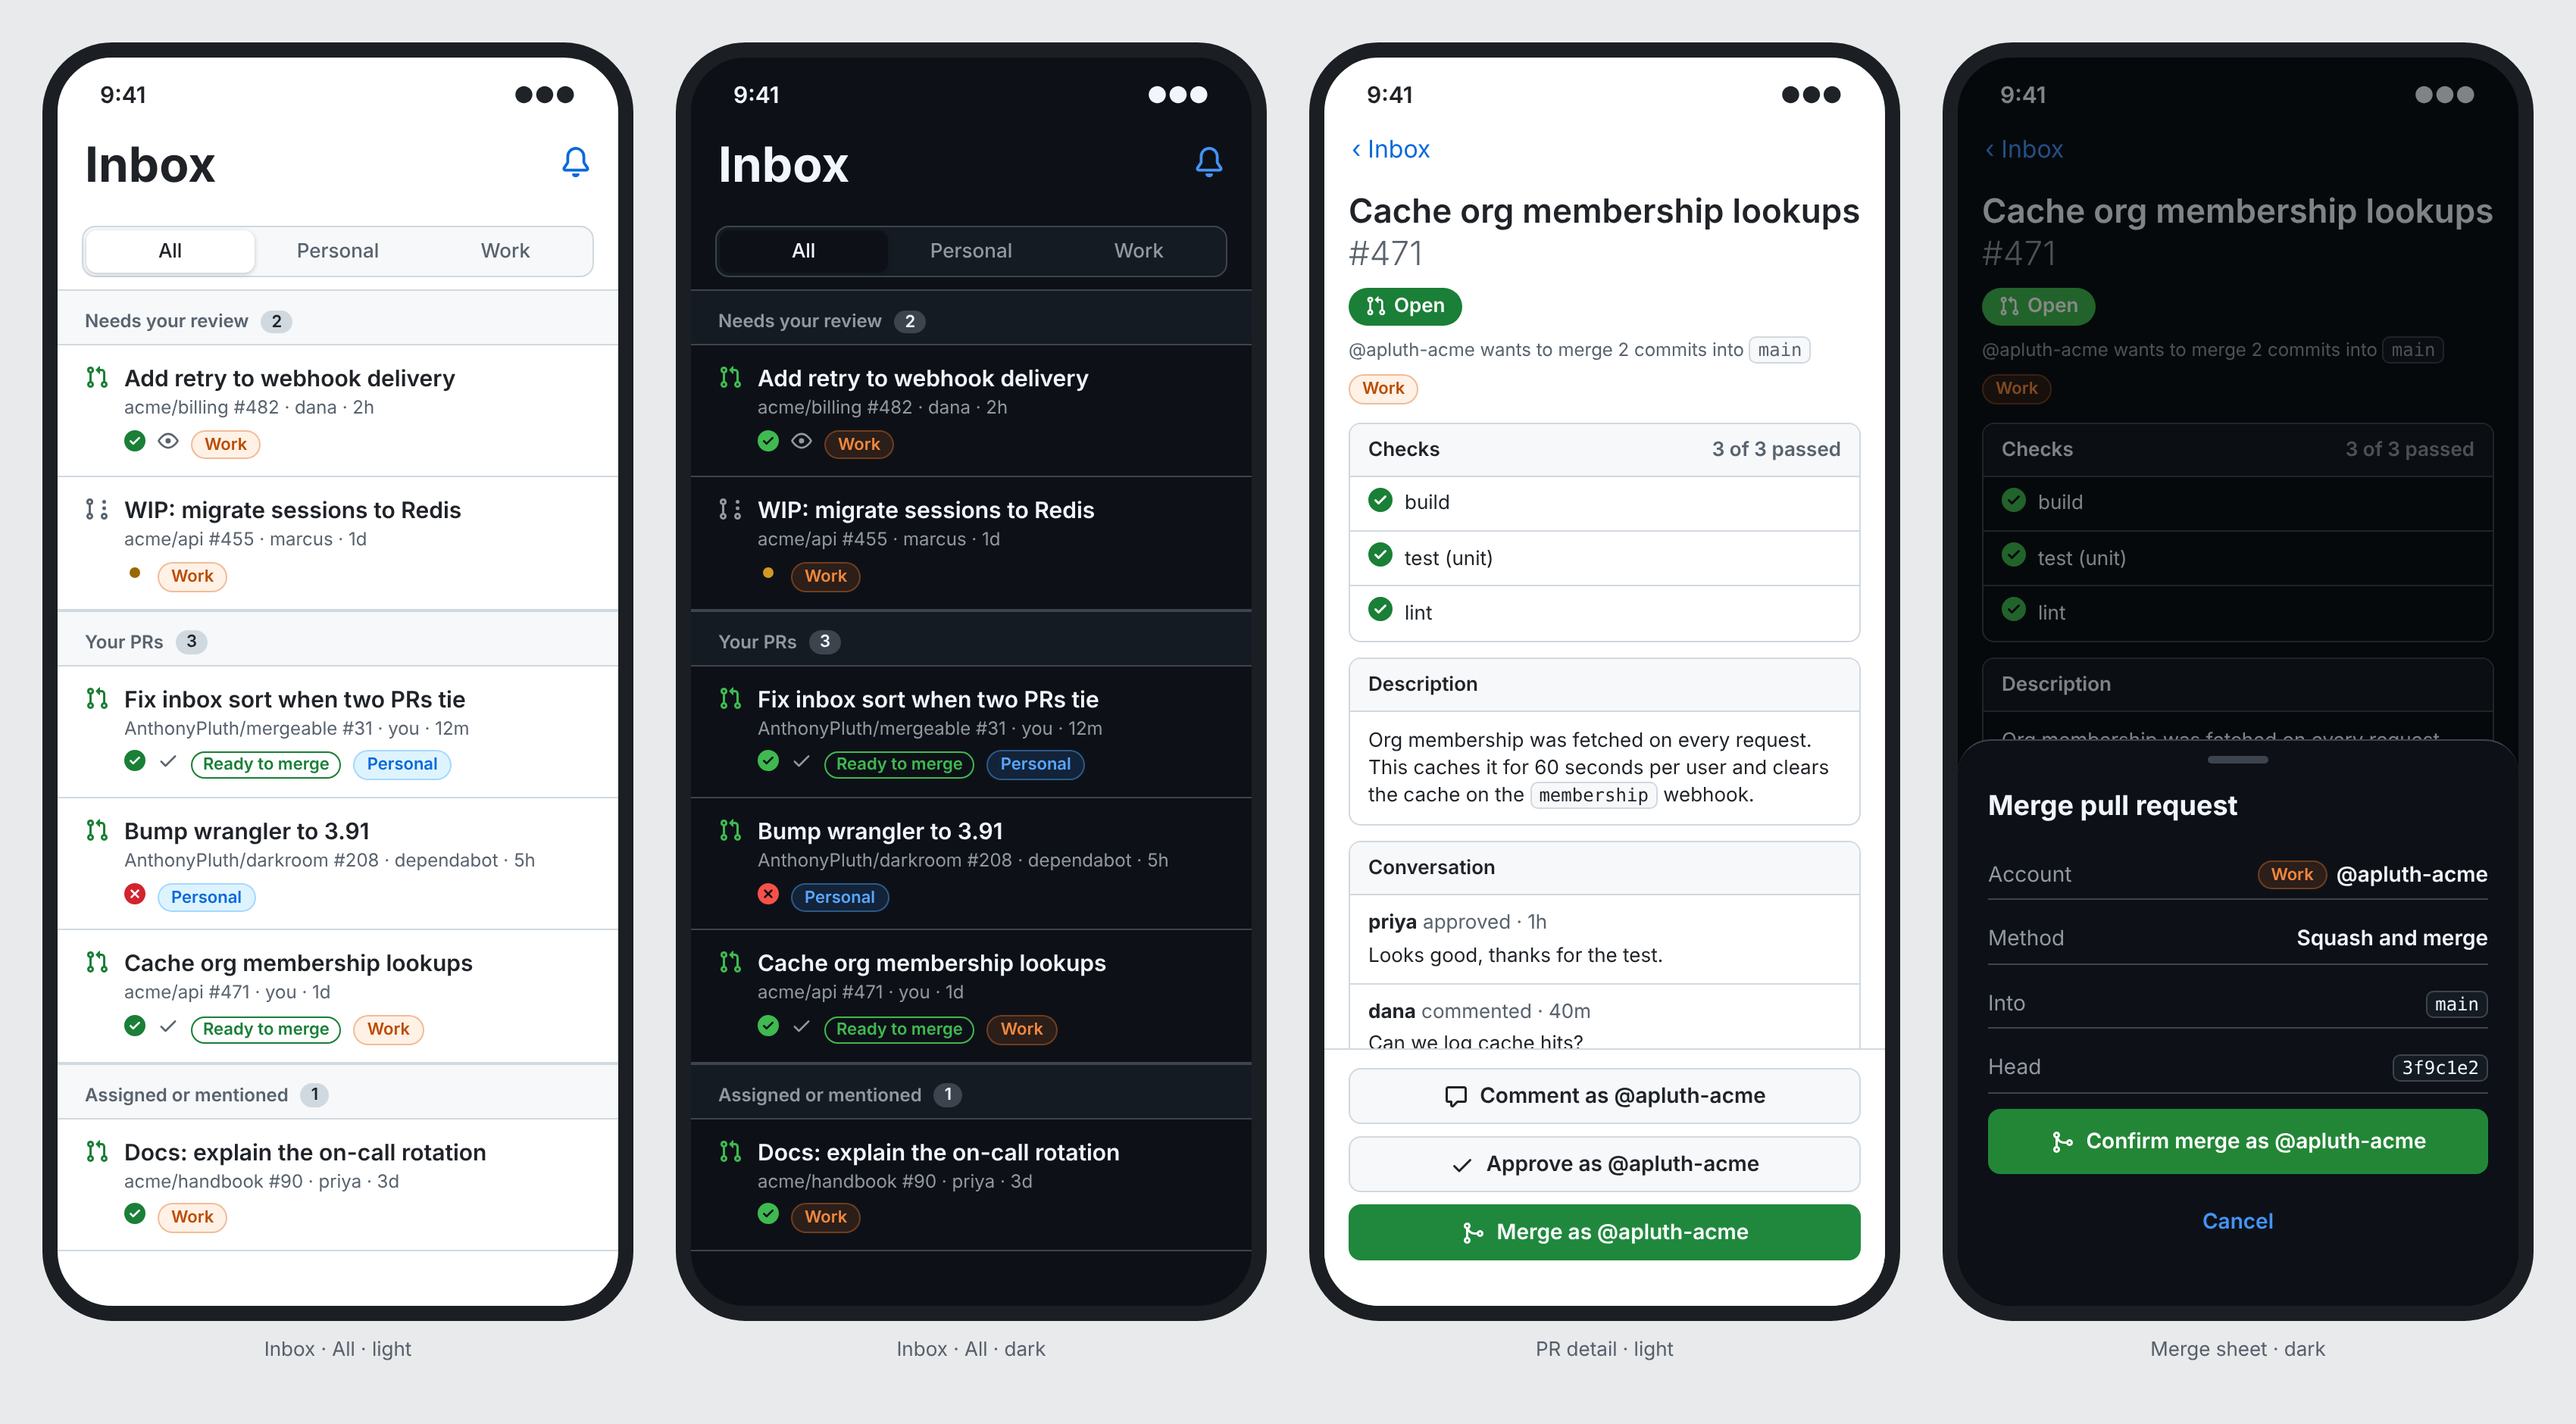
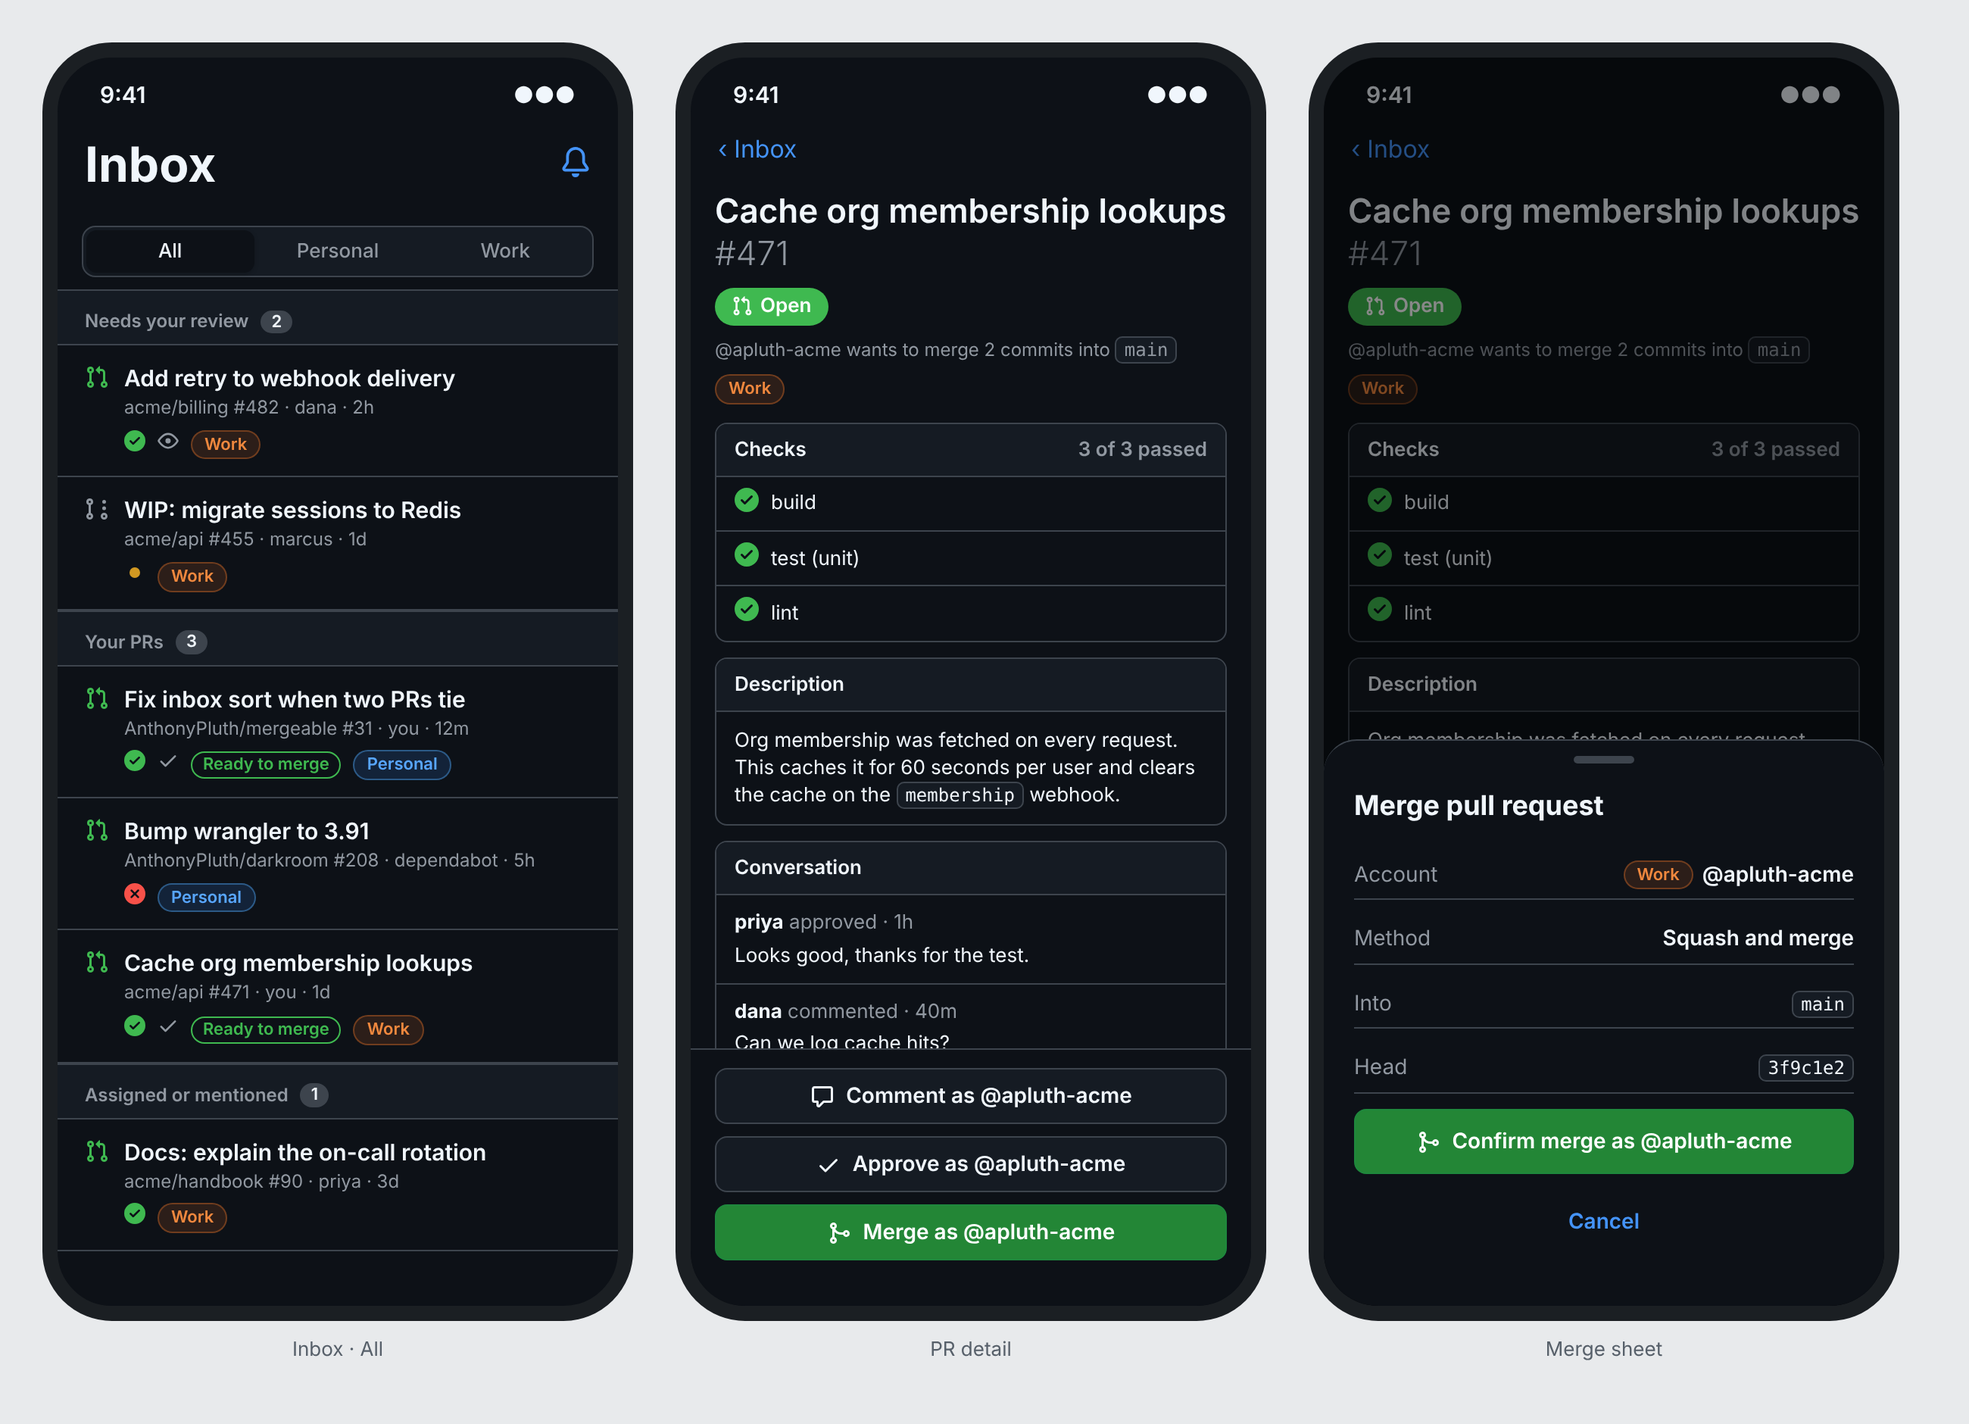
app: dark mode only
Claude-Session: https://claude.ai/code/session_01VkTLMbbKJjy9LAeRyhDt4q

diff --git a/App/Shared/Theme.swift b/App/Shared/Theme.swift
@@ -1,6 +1,6 @@
 import SwiftUI
 
-/// Primer functional colors and Octicons, generated into the asset catalog by tools/primer/build-assets.mjs.
+/// Primer functional colors (dark only: the app forces dark mode) and Octicons, generated into the asset catalog by tools/primer/build-assets.mjs.
 enum PRVisualState {
     case open, draft, merged, closed
 

diff --git a/App/Shared/MergeableApp.swift b/App/Shared/MergeableApp.swift
@@ -8,7 +8,7 @@ struct MergeableApp: App {
 
     var body: some Scene {
         WindowGroup {
-            RootView(keychain: keychain).environmentObject(accounts)
+            RootView(keychain: keychain).environmentObject(accounts).preferredColorScheme(.dark)
         }
         #if os(macOS)
         .defaultSize(width: 1120, height: 700)

diff --git a/docs/superpowers/specs/2026-11-13-mergeable-design.md b/docs/superpowers/specs/2026-11-13-mergeable-design.md
@@ -78,7 +78,7 @@ The app has no "current account": every write picks its token from the PR's repo
 
 An inbox, a PR detail screen and a handful of actions, on both iPhone and Mac.
 
-**Look:** match GitHub's own styling closely, in light and dark mode. Use GitHub's Primer colors and spacing, its Octicons icon set (both open source), and GitHub's PR state colors: open green, draft gray, merged purple, closed red. Checks and review states use the same icons as github.com. The app icon and name stay its own, with no GitHub logo. You sign off on mockups of the inbox and PR screens before they're built.
+**Look:** match GitHub's own styling closely, in dark mode (the app is dark-only). Use GitHub's Primer colors and spacing, its Octicons icon set (both open source), and GitHub's PR state colors: open green, draft gray, merged purple, closed red. Checks and review states use the same icons as github.com. The app icon and name stay its own, with no GitHub logo. You sign off on mockups of the inbox and PR screens before they're built.
 
 - **Inbox:** tabs for All, Personal and Work (one per account). Each tab has three sections: Needs your review, Your PRs, Assigned or mentioned. Each row shows repo, title, author, checks status, review state, age and the account badge.
 - **PR detail:** description, conversation, checks, and files changed with read-only diffs.
